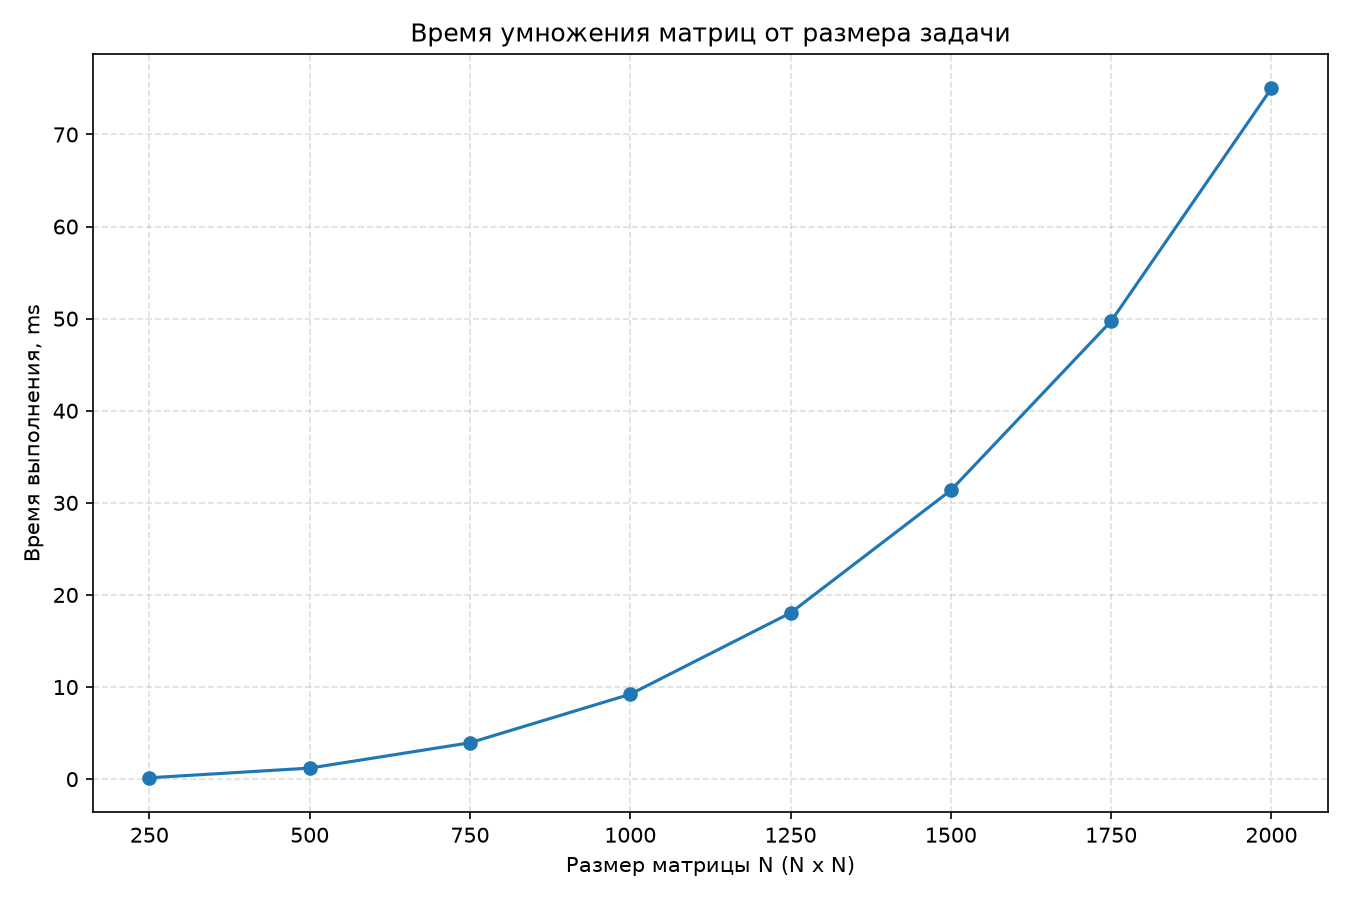
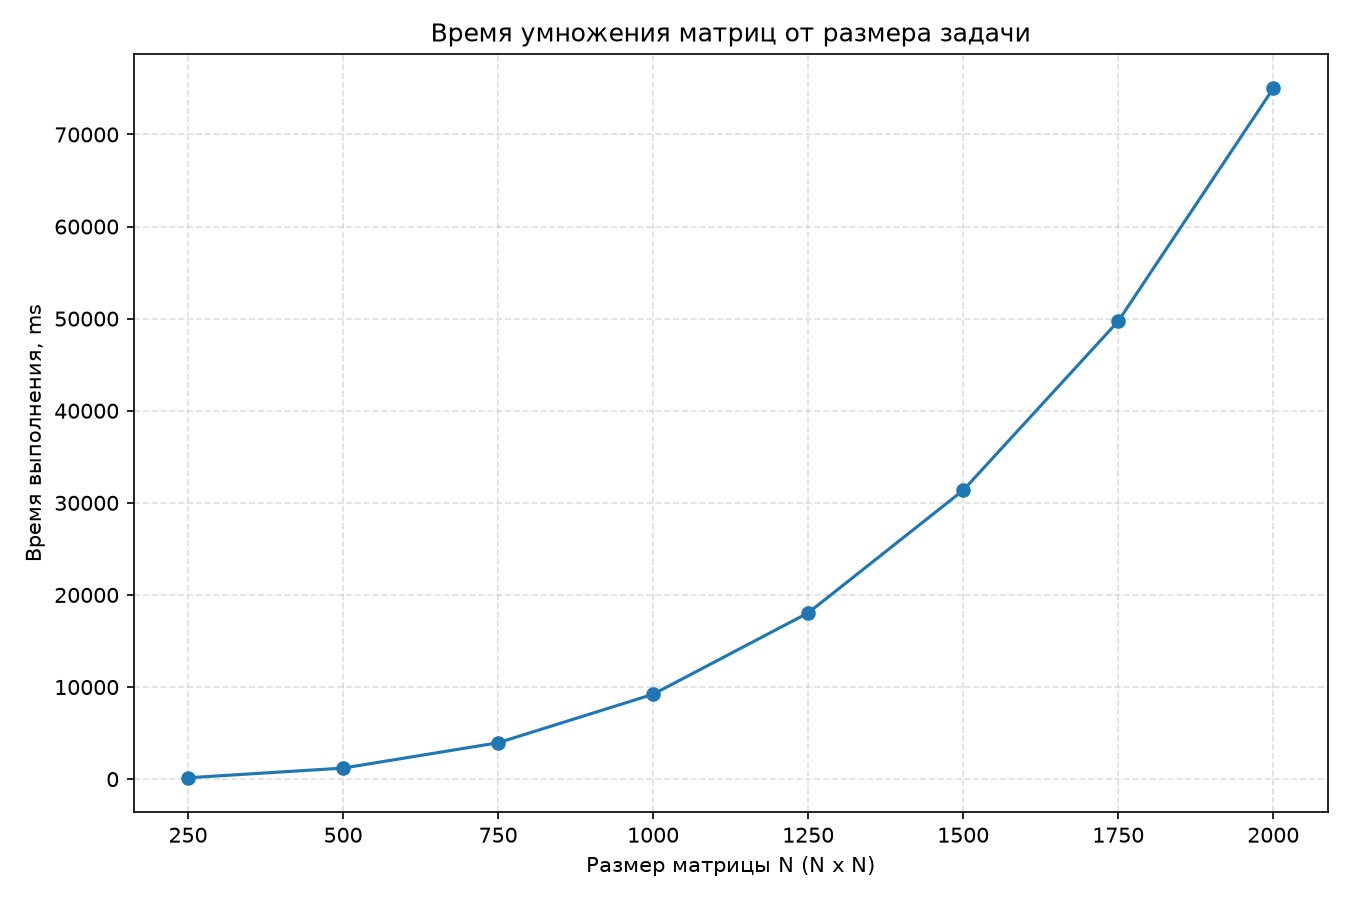
fix: scale in time_vs_size changed to ms

diff --git a/scripts/visualize.py b/scripts/visualize.py
@@ -11,7 +11,7 @@ def plot_time_vs_size(df: pd.DataFrame, out_path: pathlib.Path) -> None:
     fig, ax = plt.subplots(figsize=(9, 6))
 
     sorted_df = df.sort_values("size")
-    ax.plot(sorted_df["size"], sorted_df["elapsed_seconds"], marker="o")
+    ax.plot(sorted_df["size"], sorted_df["elapsed_seconds"]*1000, marker="o")
 
     ax.set_xlabel("Размер матрицы N (N x N)")
     ax.set_ylabel("Время выполнения, ms")
